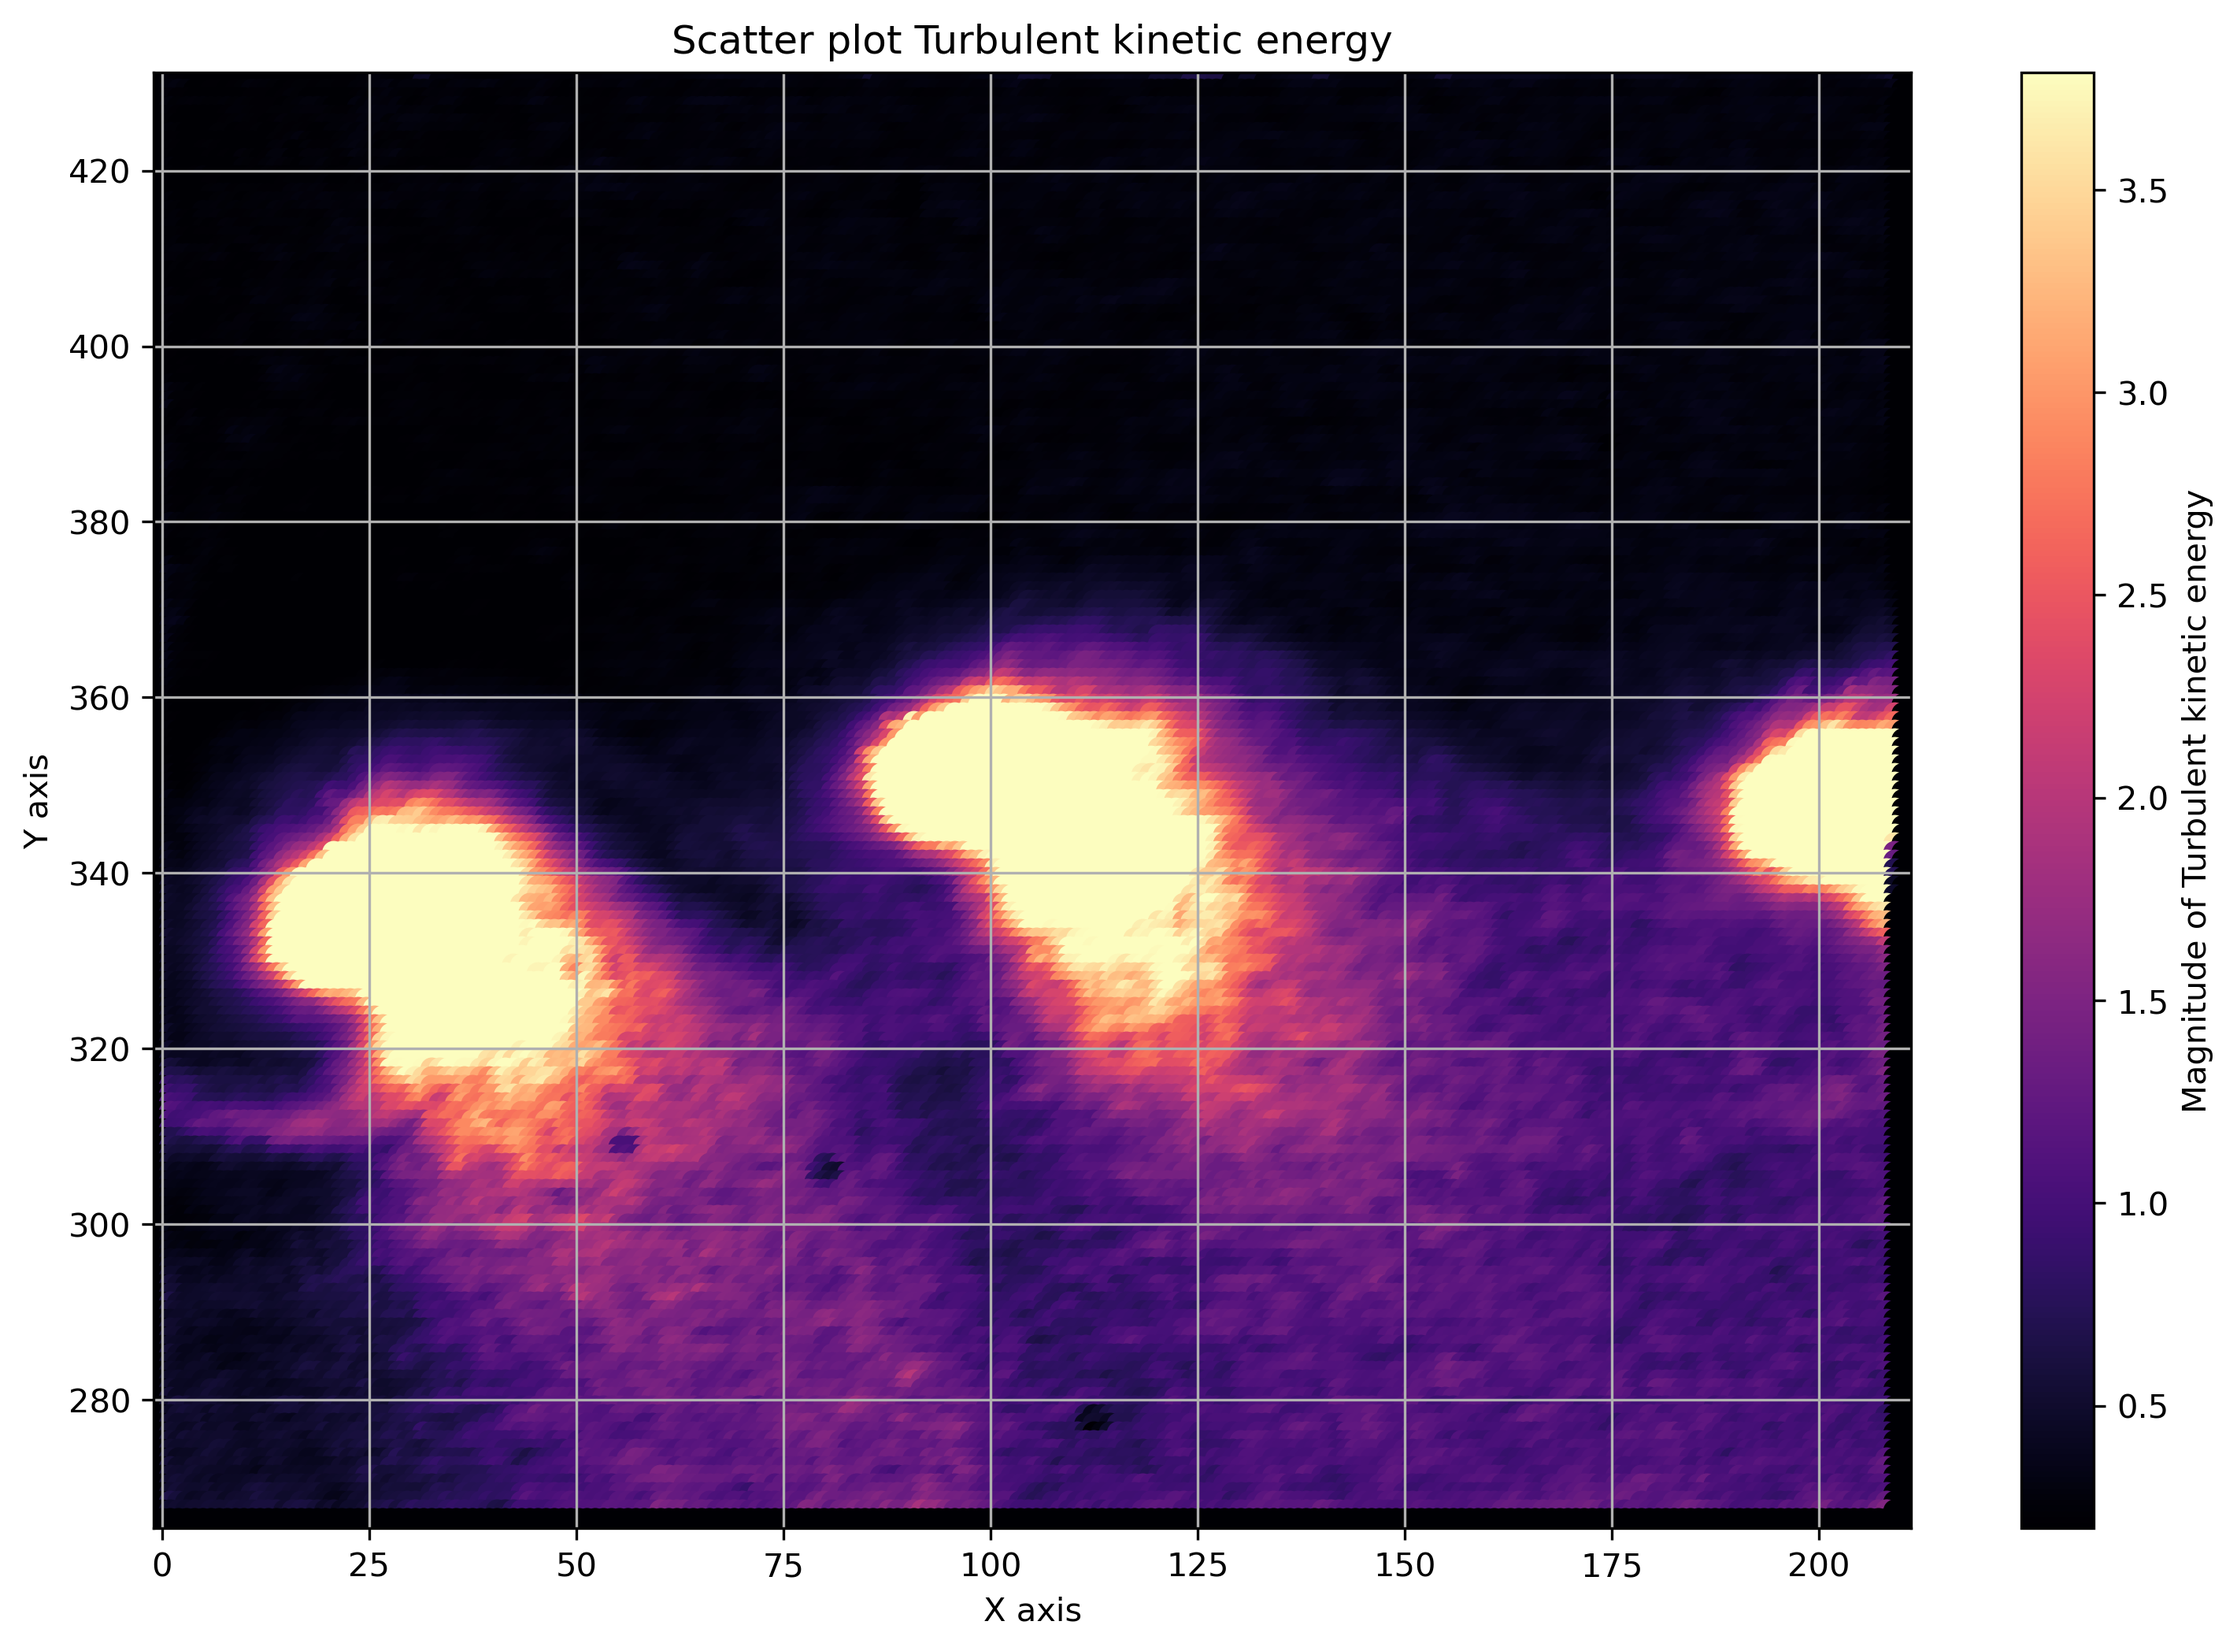
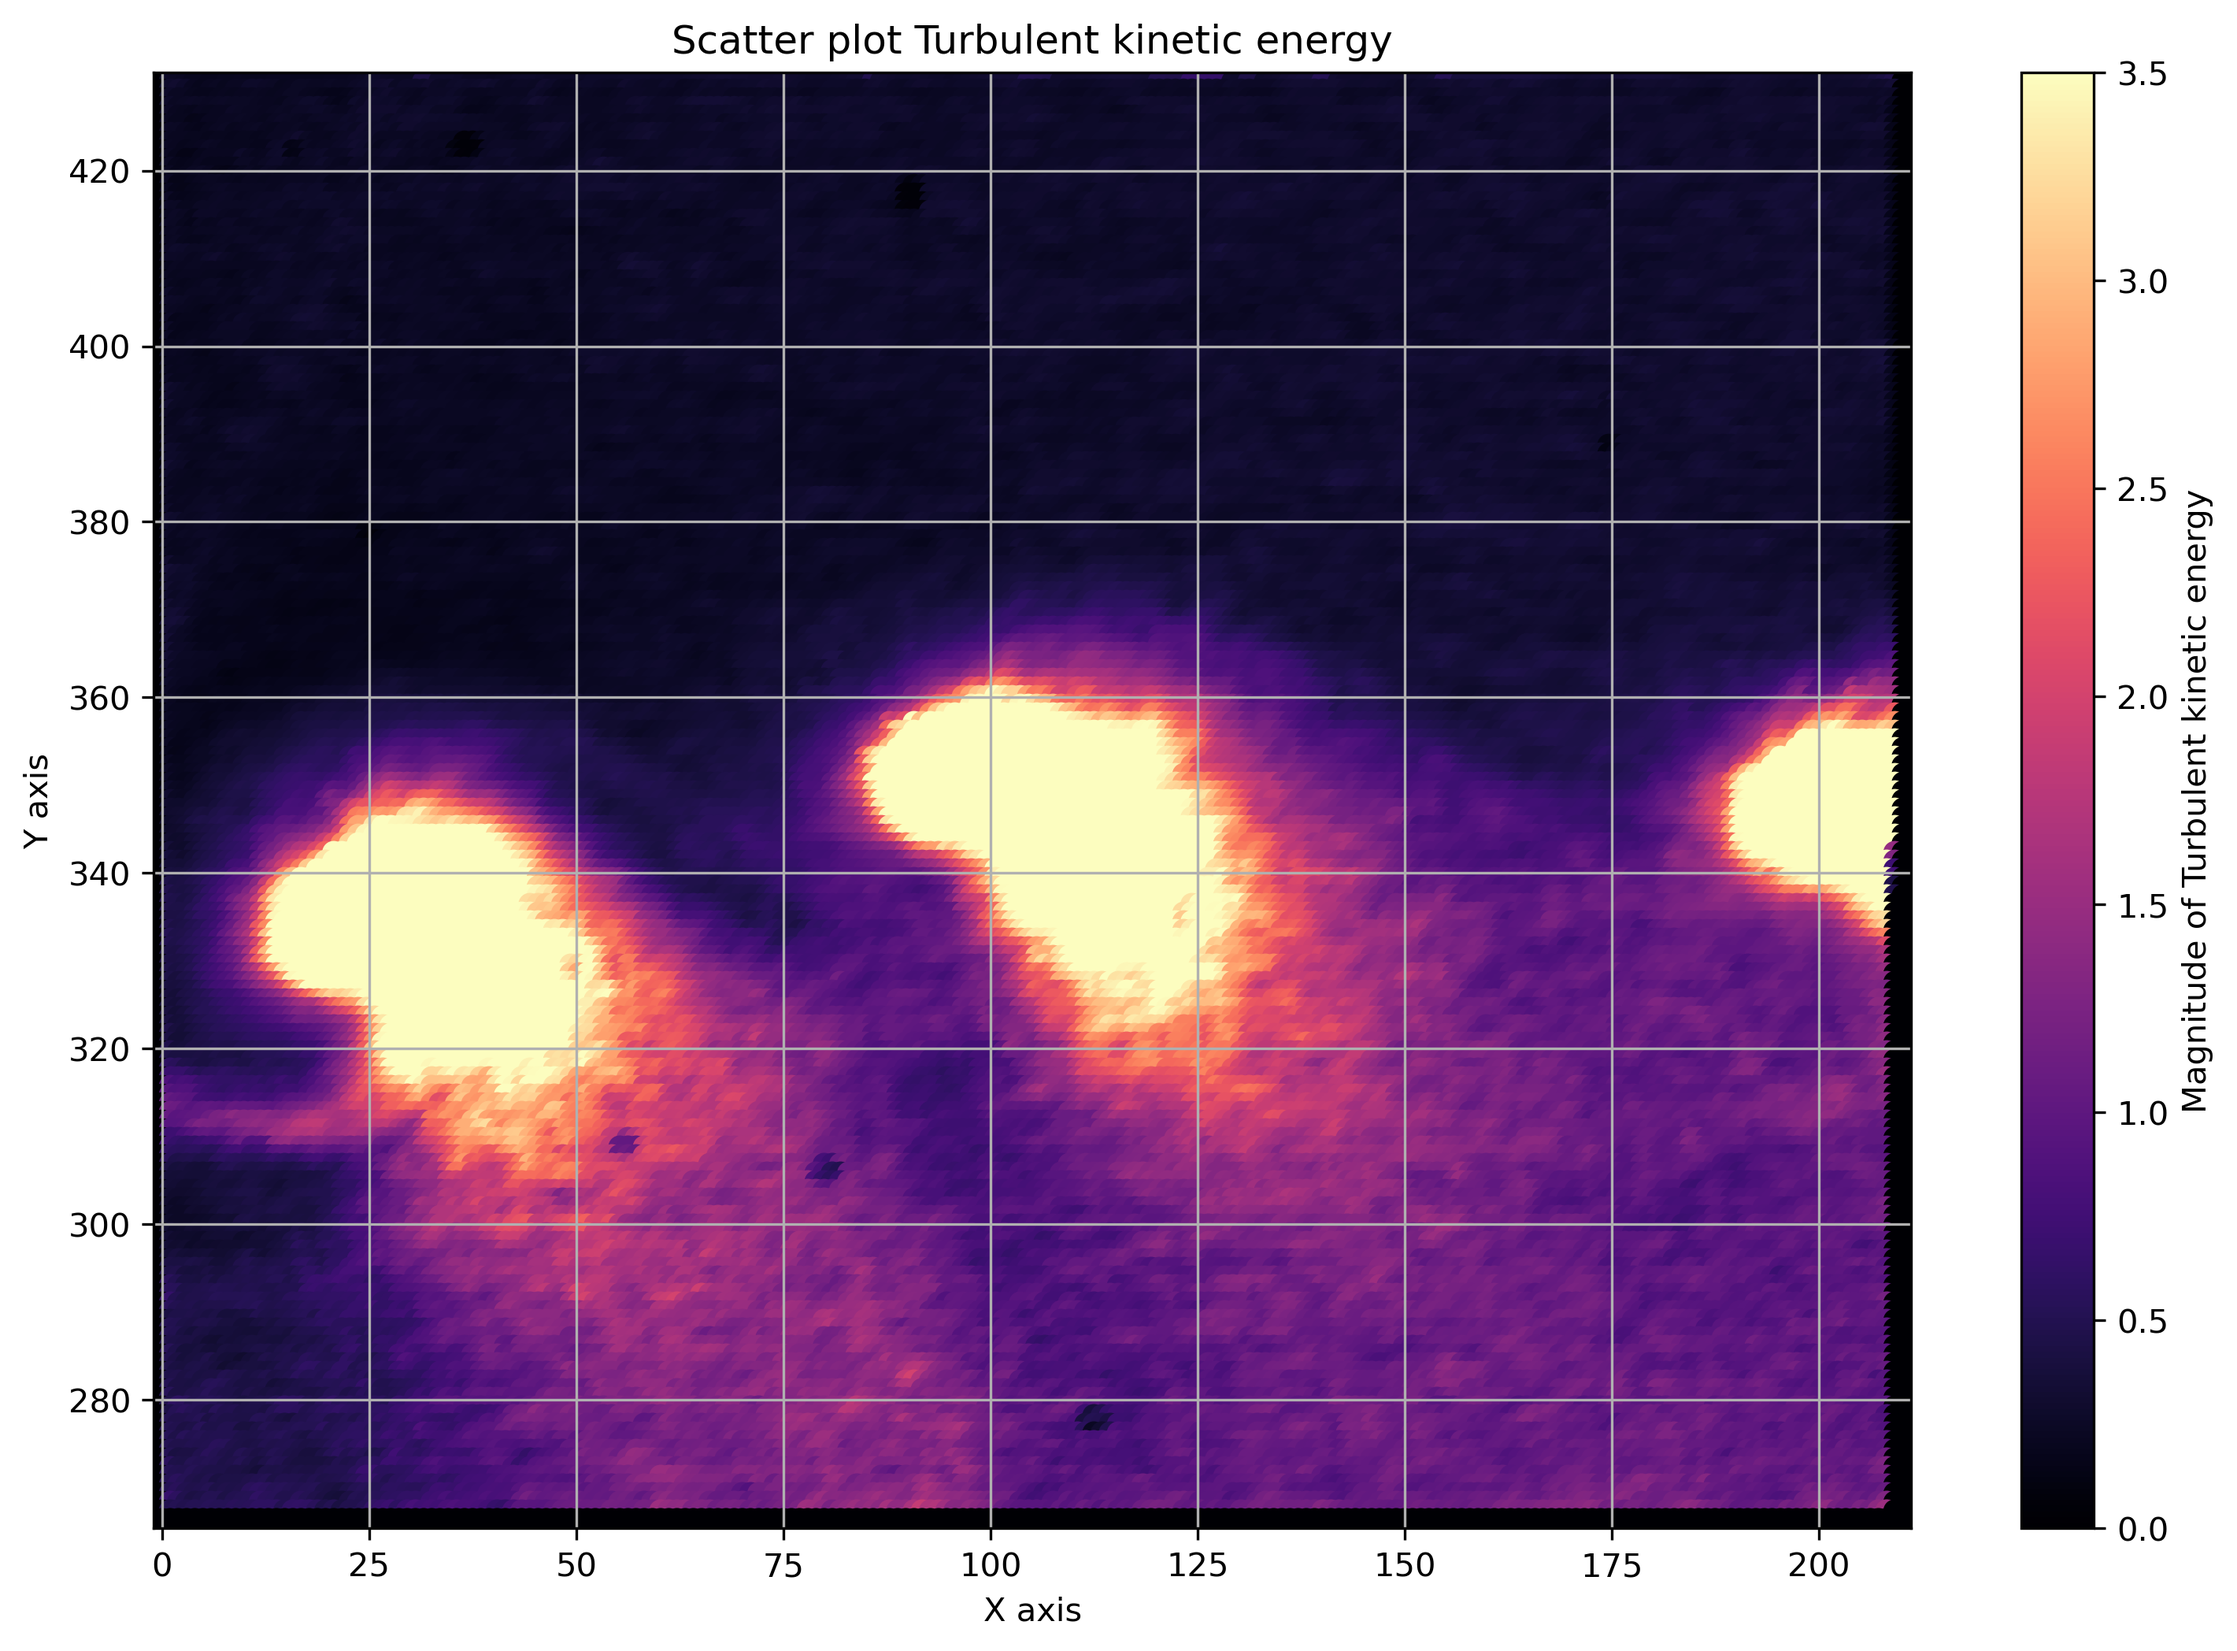
commit

diff --git a/main.py b/main.py
@@ -16,13 +16,13 @@ from Vorticity_image_gen import Vorticity_image, Velocity_fluctuations_image, Tu
 from interpolate import interpol
 
 
-Planes=['C']#Add C
+Planes=['A','B']#Add C
 
 for plane in Planes:
     print(plane)
     for j in range(1,2): #ADD 0
         
-        average_U_arr, average_V_arr = average_values(1, 2500, plane, j)
+        #average_U_arr, average_V_arr = average_values(1, 4000, plane, j)
         #print('ok')
          
        # average_U_arr, average_V_arr=interpol(average_U_arr, average_V_arr)
@@ -36,16 +36,16 @@ for plane in Planes:
         
           
         else:
-            for i in range(1, 37):
+            for i in range(1, 3):
                 
                 
                 print('bin', i)
-                error, u_magnitudes, v_magnitudes = bin_average_velocities(i, plane, j)
-                if error==0:
-                    break
-                Velocity_fluctuations_image(u_magnitudes, v_magnitudes, average_U_arr, average_V_arr, plane, j, i)
+                #error, u_magnitudes, v_magnitudes = bin_average_velocities(i, plane, j)
+                #if error==0:
+                    #break
+                #Velocity_fluctuations_image(u_magnitudes, v_magnitudes, average_U_arr, average_V_arr, plane, j, i)
                 # Turbulent kinetic energy
-                #Turbulent_kinetic_energy(plane, j, i)
+                Turbulent_kinetic_energy(plane, j, i)
                 #vector fields
                 #bin_average_vector_field_image(i, plane, j)
 

diff --git a/Vorticity_image_gen.py b/Vorticity_image_gen.py
@@ -316,8 +316,8 @@ def Turbulent_kinetic_energy(plane, J_number, bin):
     cmap = plt.colormaps.get_cmap('magma')
 
     # Normalize magnitudes to range from 0 to 1
-    norm = Normalize(vmin=np.percentile(turbulent_kinetic_energy , 5), vmax=np.percentile(turbulent_kinetic_energy, 95))
-    
+    #norm = Normalize(vmin=np.percentile(turbulent_kinetic_energy , 5), vmax=np.percentile(turbulent_kinetic_energy, 95))
+    norm = Normalize(0, 3.5)
     
     fig, ax = plt.subplots(figsize=(12, 8), dpi=300)
 
